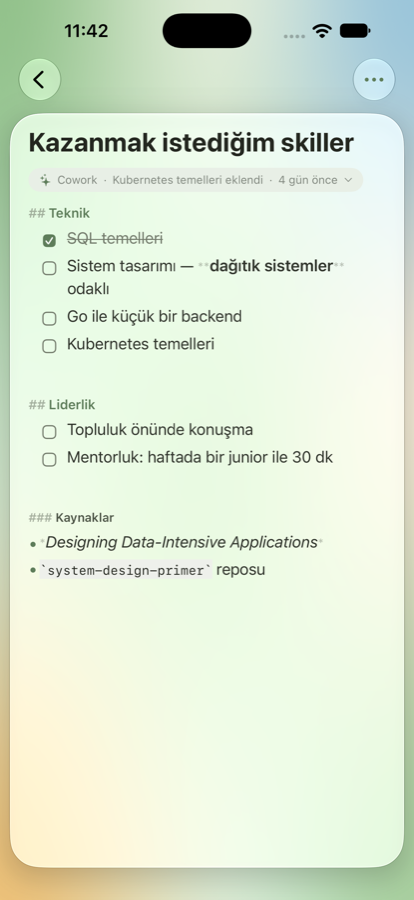
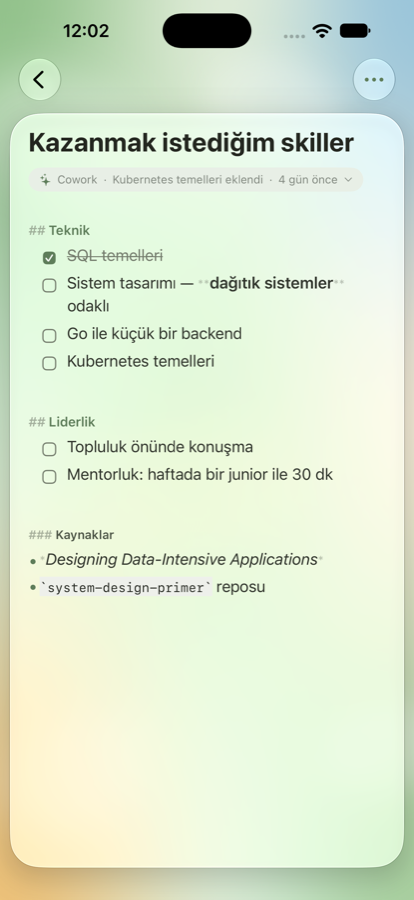
refactor: drop moving glare; clearer glass; reliable iPhone note title
- Removed pointer/tilt-following sheen and CoreMotion use; static thin glass rim instead
- Lower fills so panels are more transparent
- iPhone note title renders as text until tapped (vertical TextField could show empty on first push);
  title stays in sync with the stored title on both platforms

diff --git a/App/Shared/LightEffects.swift b/App/Shared/LightEffects.swift
@@ -1,84 +1,17 @@
 import SwiftUI
-#if os(iOS)
-import CoreMotion
-#endif
 
-/// Where the "light" sits for glass highlights. On iPhone it follows device tilt; on Mac each panel
-/// follows the pointer while hovered and rests at the top-left otherwise.
-@MainActor @Observable
-final class LightSource {
-    static let shared = LightSource()
-    /// Unit point of the light in panel space (0,0 top-left … 1,1 bottom-right).
-    var point = UnitPoint(x: 0.2, y: 0.0)
-
-    #if os(iOS)
-    private let motion = CMMotionManager()
-    func startTilt() {
-        guard motion.isDeviceMotionAvailable, !motion.isDeviceMotionActive else { return }
-        motion.deviceMotionUpdateInterval = 1 / 30
-        motion.startDeviceMotionUpdates(to: .main) { [weak self] data, _ in
-            guard let g = data?.gravity else { return }
-            // Tilting the phone moves the highlight across the glass.
-            let x = min(max(0.5 + g.x * 0.9, -0.2), 1.2)
-            let y = min(max(0.15 + (g.y + 0.6) * 0.9, -0.2), 1.2)
-            MainActor.assumeIsolated { self?.point = UnitPoint(x: x, y: y) }
-        }
-    }
-    #endif
-}
-
-/// Light position for a panel: pointer while hovered (Mac), else the shared light (tilt on iPhone).
-@MainActor private enum LightPoint {
-    static func resolve(hover: UnitPoint?, reduceMotion: Bool) -> UnitPoint {
-        reduceMotion ? UnitPoint(x: 0.2, y: 0) : (hover ?? LightSource.shared.point)
-    }
-}
-
-/// Broad sheen where light hits the glass; sits under the content.
-struct SpecularSheen<S: InsettableShape>: View {
+/// Thin static glass edge: a little brighter at the top, so panels read as glass without any glare.
+struct GlassRim<S: InsettableShape>: View {
     let shape: S
-    var hover: UnitPoint?
     @Environment(\.colorScheme) private var scheme
-    @Environment(\.accessibilityReduceMotion) private var reduceMotion
 
     var body: some View {
-        GeometryReader { geo in
-            let p = LightPoint.resolve(hover: hover, reduceMotion: reduceMotion)
-            let dark = scheme == .dark
-            shape.fill(
-                RadialGradient(
-                    colors: [.white.opacity(dark ? 0.20 : 0.65), .white.opacity(0)],
-                    center: p, startRadius: 0, endRadius: max(geo.size.width, geo.size.height) * 0.7)
-            )
-            .blendMode(dark ? .plusLighter : .softLight)
-            .animation(.spring(duration: 0.5), value: hover)
-        }
-        .allowsHitTesting(false)
-    }
-}
-
-/// Bright rim nearest the light plus a thin inner caustic; drawn on top, but only at the edges.
-struct SpecularRim<S: InsettableShape>: View {
-    let shape: S
-    var hover: UnitPoint?
-    @Environment(\.colorScheme) private var scheme
-    @Environment(\.accessibilityReduceMotion) private var reduceMotion
-
-    var body: some View {
-        let p = LightPoint.resolve(hover: hover, reduceMotion: reduceMotion)
-        let opposite = UnitPoint(x: 1 - p.x, y: 1 - p.y)
         let dark = scheme == .dark
-        ZStack {
-            shape.strokeBorder(
-                LinearGradient(colors: [.white.opacity(dark ? 0.6 : 1), .white.opacity(0.06), .white.opacity(dark ? 0.2 : 0.45)],
-                               startPoint: p, endPoint: opposite),
-                lineWidth: 1.3)
-            shape.inset(by: 2.5).strokeBorder(
-                LinearGradient(colors: [.white.opacity(dark ? 0.28 : 0.6), .clear], startPoint: p, endPoint: .center),
-                lineWidth: 0.8)
-        }
-        .animation(.spring(duration: 0.5), value: hover)
-        .allowsHitTesting(false)
+        shape.strokeBorder(
+            LinearGradient(colors: [.white.opacity(dark ? 0.28 : 0.75), .white.opacity(dark ? 0.08 : 0.25)],
+                           startPoint: .top, endPoint: .bottom),
+            lineWidth: 1)
+            .allowsHitTesting(false)
     }
 }
 

diff --git a/App/MarginMobile/NoteScreen.swift b/App/MarginMobile/NoteScreen.swift
@@ -120,17 +120,29 @@ struct NoteScreen: View {
     @State private var conflictRevision: Int?
     @State private var showHistory = false
     @FocusState private var titleFocused: Bool
+    @State private var editingTitle = false
 
     var body: some View {
         let note = library.note(noteID)
         VStack(alignment: .leading, spacing: 10) {
             if conflictRevision != nil { banner }
-            TextField("Title", text: $title, axis: .vertical)
-                .font(.system(size: 28, weight: .bold))
-                .foregroundStyle(Color(palette: Palette.text))
-                .focused($titleFocused)
-                .onSubmit(commitTitle)
-                .onChange(of: titleFocused) { _, f in if !f { commitTitle() } }
+            Group {
+                if editingTitle {
+                    TextField("Title", text: $title, axis: .vertical)
+                        .focused($titleFocused)
+                        .onSubmit(commitTitle)
+                        .onChange(of: titleFocused) { _, f in if !f { commitTitle(); editingTitle = false } }
+                        .onAppear { titleFocused = true }
+                } else {
+                    // Plain text when not editing: always renders (a vertical TextField can show empty on first push).
+                    Text(title.isEmpty ? (library.note(noteID)?.meta.title ?? "") : title)
+                        .frame(maxWidth: .infinity, alignment: .leading)
+                        .contentShape(Rectangle())
+                        .onTapGesture { editingTitle = true }
+                }
+            }
+            .font(.system(size: 28, weight: .bold))
+            .foregroundStyle(Color(palette: Palette.text))
             if let last = library.lastChange(for: noteID) {
                 Button { showHistory = true } label: { SourceBadge(entry: last) }.buttonStyle(.plain)
             }
@@ -138,7 +150,7 @@ struct NoteScreen: View {
         }
         .padding(.horizontal, 20)
         .padding(.top, 14)
-        .glassPanel(cornerRadius: 32, fill: 0.42)
+        .glassPanel(cornerRadius: 32, fill: 0.25)
         .padding(.horizontal, 10)
         .padding(.top, 4)
         .background(AmbientBackground().ignoresSafeArea())
@@ -171,6 +183,10 @@ struct NoteScreen: View {
         }
         .onAppear(perform: load)
         .onChange(of: note?.meta.revision) { _, _ in externalChange() }
+        .onChange(of: library.note(noteID)?.meta.title) { _, new in
+            // Keep the title field in sync with the stored title (also covers a late first load).
+            if !titleFocused, let new, new != title { title = new }
+        }
         .onDisappear(perform: flush)
         .task(id: library.freshLines[noteID]) {
             guard library.freshLines[noteID] != nil else { return }

diff --git a/App/Shared/AmbientBackground.swift b/App/Shared/AmbientBackground.swift
@@ -57,30 +57,17 @@ private struct GlassPanel: ViewModifier {
     let tint: Color?
     let interactive: Bool
     @Environment(\.colorScheme) private var scheme
-    @State private var hover: UnitPoint?
-    @State private var size: CGSize = .zero
 
     func body(content: Content) -> some View {
         let shape = RoundedRectangle(cornerRadius: cornerRadius, style: .continuous)
         let base: Glass = clear ? .clear : .regular
         var glass: Glass = tint.map { base.tint($0) } ?? base
         if interactive { glass = glass.interactive() }
-        // Layering (back to front): glass → light fill → sheen → content → rim.
+        // Layering (back to front): glass → light fill → content → static rim.
         return content
-            .background(SpecularSheen(shape: shape, hover: hover).clipShape(shape))
             .background(shape.fill(Color(palette: Palette.card).opacity(fill)))
             .glassEffect(glass, in: .rect(cornerRadius: cornerRadius))
-            .overlay(SpecularRim(shape: shape, hover: hover))
-            .onGeometryChange(for: CGSize.self) { $0.size } action: { size = $0 }
-            #if os(macOS)
-            .onContinuousHover { phase in
-                switch phase {
-                case .active(let loc):
-                    hover = UnitPoint(x: loc.x / max(size.width, 1), y: loc.y / max(size.height, 1))
-                case .ended: hover = nil
-                }
-            }
-            #endif
+            .overlay(GlassRim(shape: shape))
             .shadow(color: .black.opacity(scheme == .dark ? 0.35 : 0.10), radius: 18, x: 0, y: 10)
     }
 }

diff --git a/App/MarginMobile/RootView.swift b/App/MarginMobile/RootView.swift
@@ -122,7 +122,7 @@ struct TopicsScreen: View {
                             }
                             .frame(width: 190, height: 92, alignment: .topLeading)
                             .padding(12)
-                            .glassPanel(cornerRadius: 20, fill: 0.1, clear: true, interactive: true,
+                            .glassPanel(cornerRadius: 20, fill: 0.0, clear: true, interactive: true,
                                         tint: library.isFresh(item.noteID) ? Color(palette: Palette.accent).opacity(0.35) : nil)
                         }
                         .buttonStyle(PressableStyle())
@@ -156,7 +156,7 @@ struct TopicTile: View {
         }
         .padding(14)
         .frame(height: 118)
-        .glassPanel(cornerRadius: 24, fill: 0.1, clear: true, interactive: true)
+        .glassPanel(cornerRadius: 24, fill: 0.0, clear: true, interactive: true)
     }
 }
 
@@ -175,7 +175,7 @@ struct Card<Content: View>: View {
         content
             .frame(maxWidth: .infinity, alignment: .leading)
             .padding(14)
-            .glassPanel(cornerRadius: 20, fill: 0.1, clear: true, interactive: true, tint: fresh ? Color(palette: Palette.accent).opacity(0.35) : nil)
+            .glassPanel(cornerRadius: 20, fill: 0.0, clear: true, interactive: true, tint: fresh ? Color(palette: Palette.accent).opacity(0.35) : nil)
     }
 }
 

diff --git a/App/Margin/Views/NoteDetail.swift b/App/Margin/Views/NoteDetail.swift
@@ -49,10 +49,13 @@ struct NoteDetail: View {
         .frame(maxWidth: 720, alignment: .leading)
         .padding(.horizontal, 44)
         .frame(maxWidth: .infinity, maxHeight: .infinity, alignment: .top)
-        .glassPanel(cornerRadius: 28, fill: 0.42)
+        .glassPanel(cornerRadius: 28, fill: 0.25)
         .padding(.horizontal, 16).padding(.bottom, 16).padding(.top, 6)
         .onAppear(perform: load)
         .onChange(of: note?.meta.revision) { _, _ in externalChange() }
+        .onChange(of: library.note(noteID)?.meta.title) { _, new in
+            if !titleFocused, let new, new != titleDraft { titleDraft = new }
+        }
         .onDisappear { flush() }
         .task(id: library.freshLines[noteID]) {
             guard library.freshLines[noteID] != nil else { return }

diff --git a/App/Margin/Views/NoteList.swift b/App/Margin/Views/NoteList.swift
@@ -38,7 +38,7 @@ struct NoteList: View {
         }
         .padding(12)
         .frame(maxWidth: .infinity, alignment: .leading)
-        .glassPanel(cornerRadius: 16, fill: selected ? 0.45 : 0.08, clear: true, interactive: true,
+        .glassPanel(cornerRadius: 16, fill: selected ? 0.3 : 0.0, clear: true, interactive: true,
                     tint: fresh ? Color(palette: Palette.accent).opacity(0.35) : nil)
         .overlay(RoundedRectangle(cornerRadius: 16, style: .continuous)
             .strokeBorder(Color(palette: Palette.accent).opacity(selected ? 0.55 : 0), lineWidth: 1.2))

diff --git a/App/MarginMobile/MarginMobileApp.swift b/App/MarginMobile/MarginMobileApp.swift
@@ -18,7 +18,6 @@ struct MarginMobileApp: App {
                 .overlay { if lock.isLocked { MobileLockView().environment(lock).transition(.opacity) } }
                 .animation(.easeInOut(duration: 0.25), value: lock.isLocked)
                 .onChange(of: phase) { _, new in lock.scenePhaseChanged(new) }
-                .onAppear { LightSource.shared.startTilt() }
         }
     }
 }
